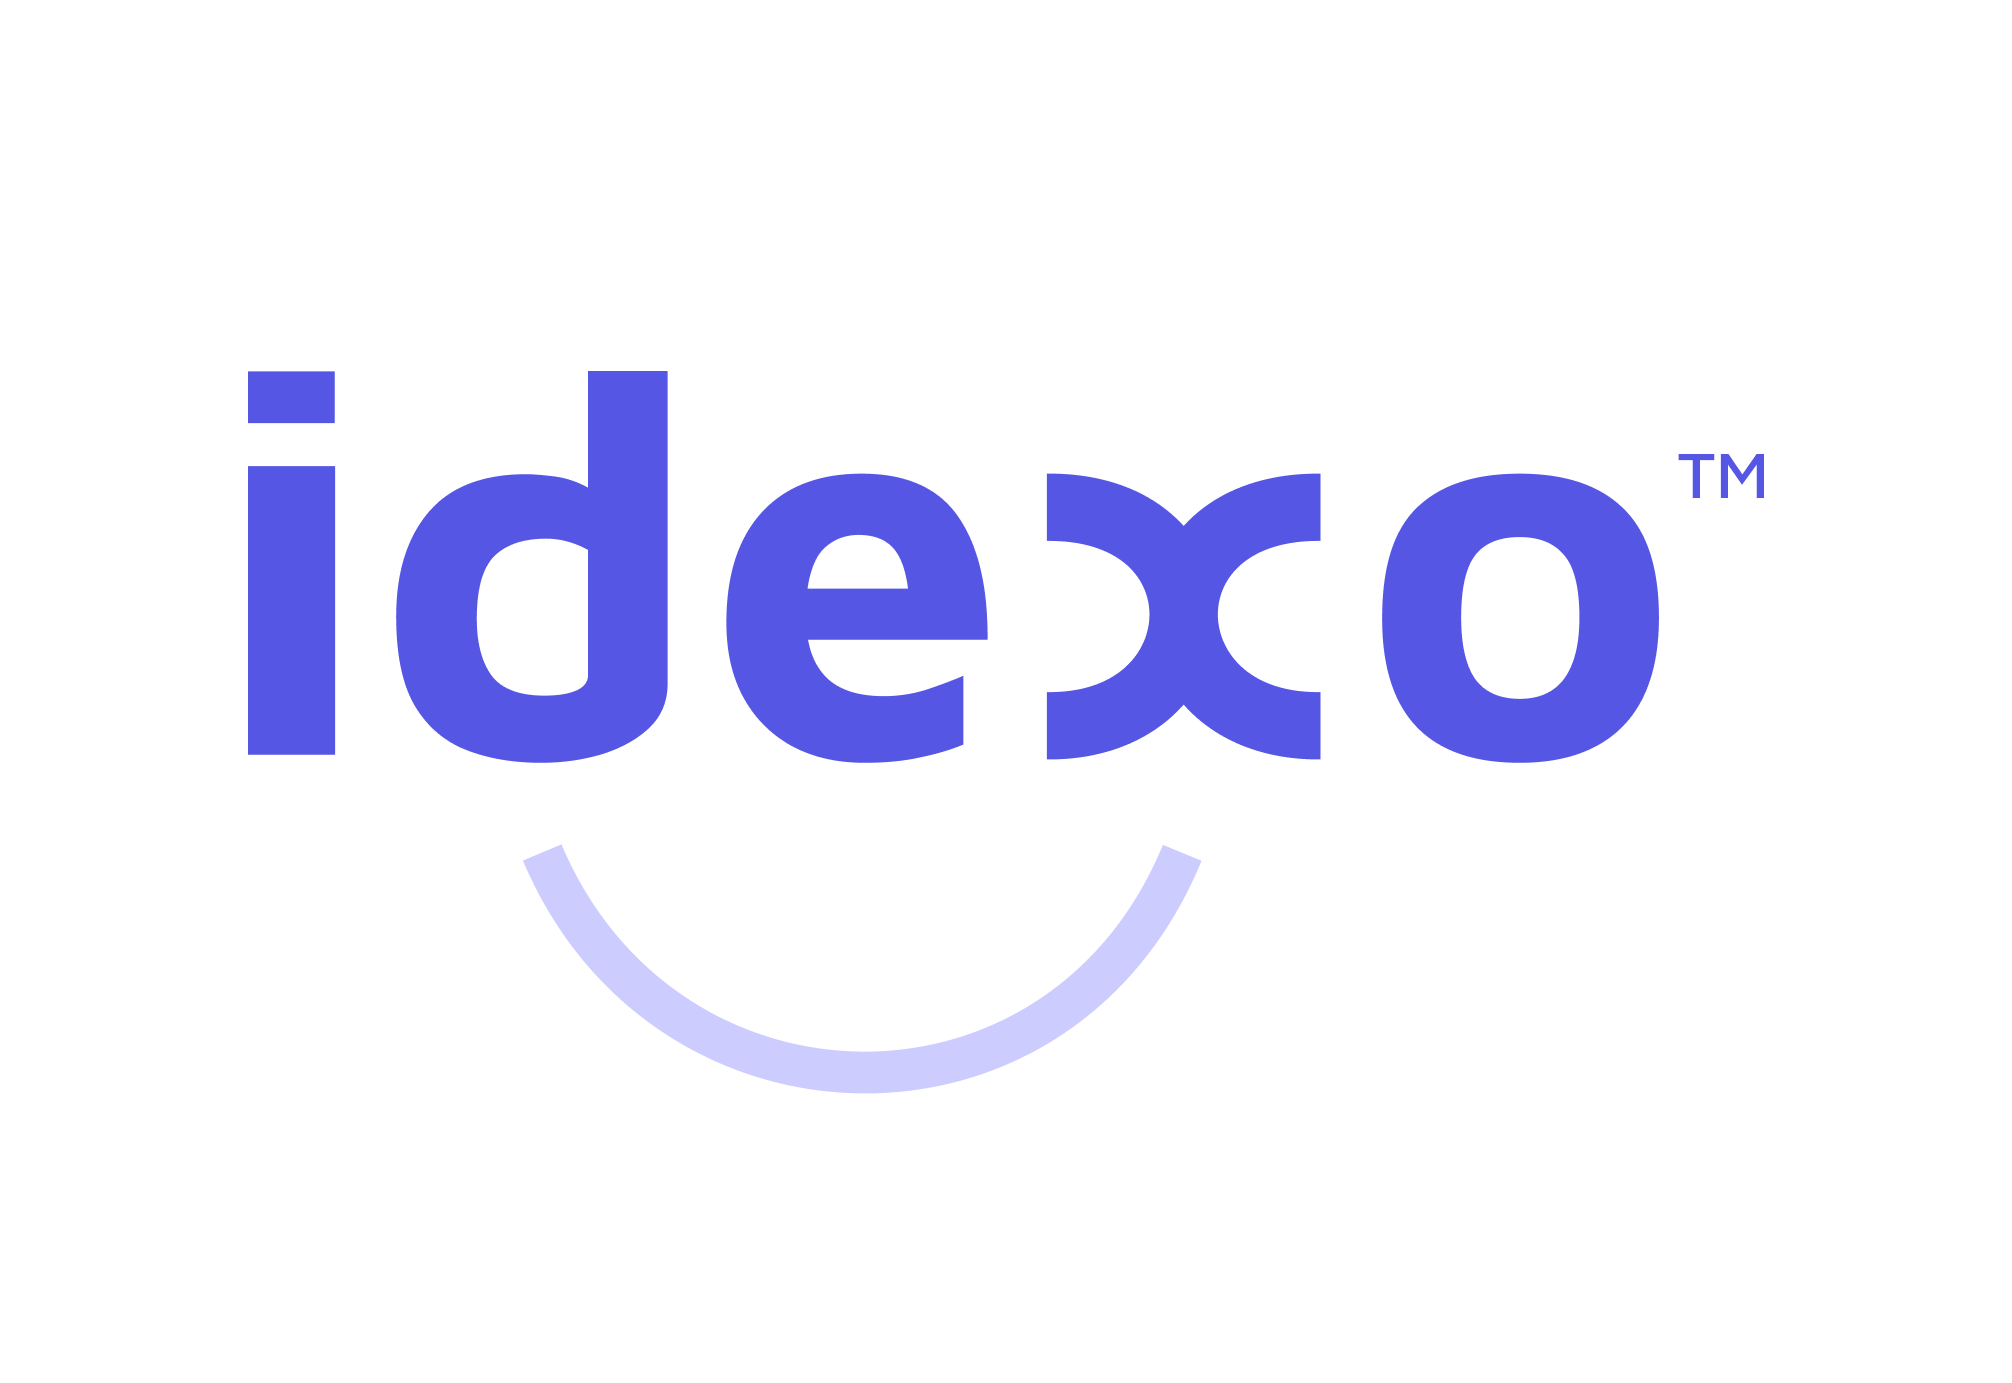
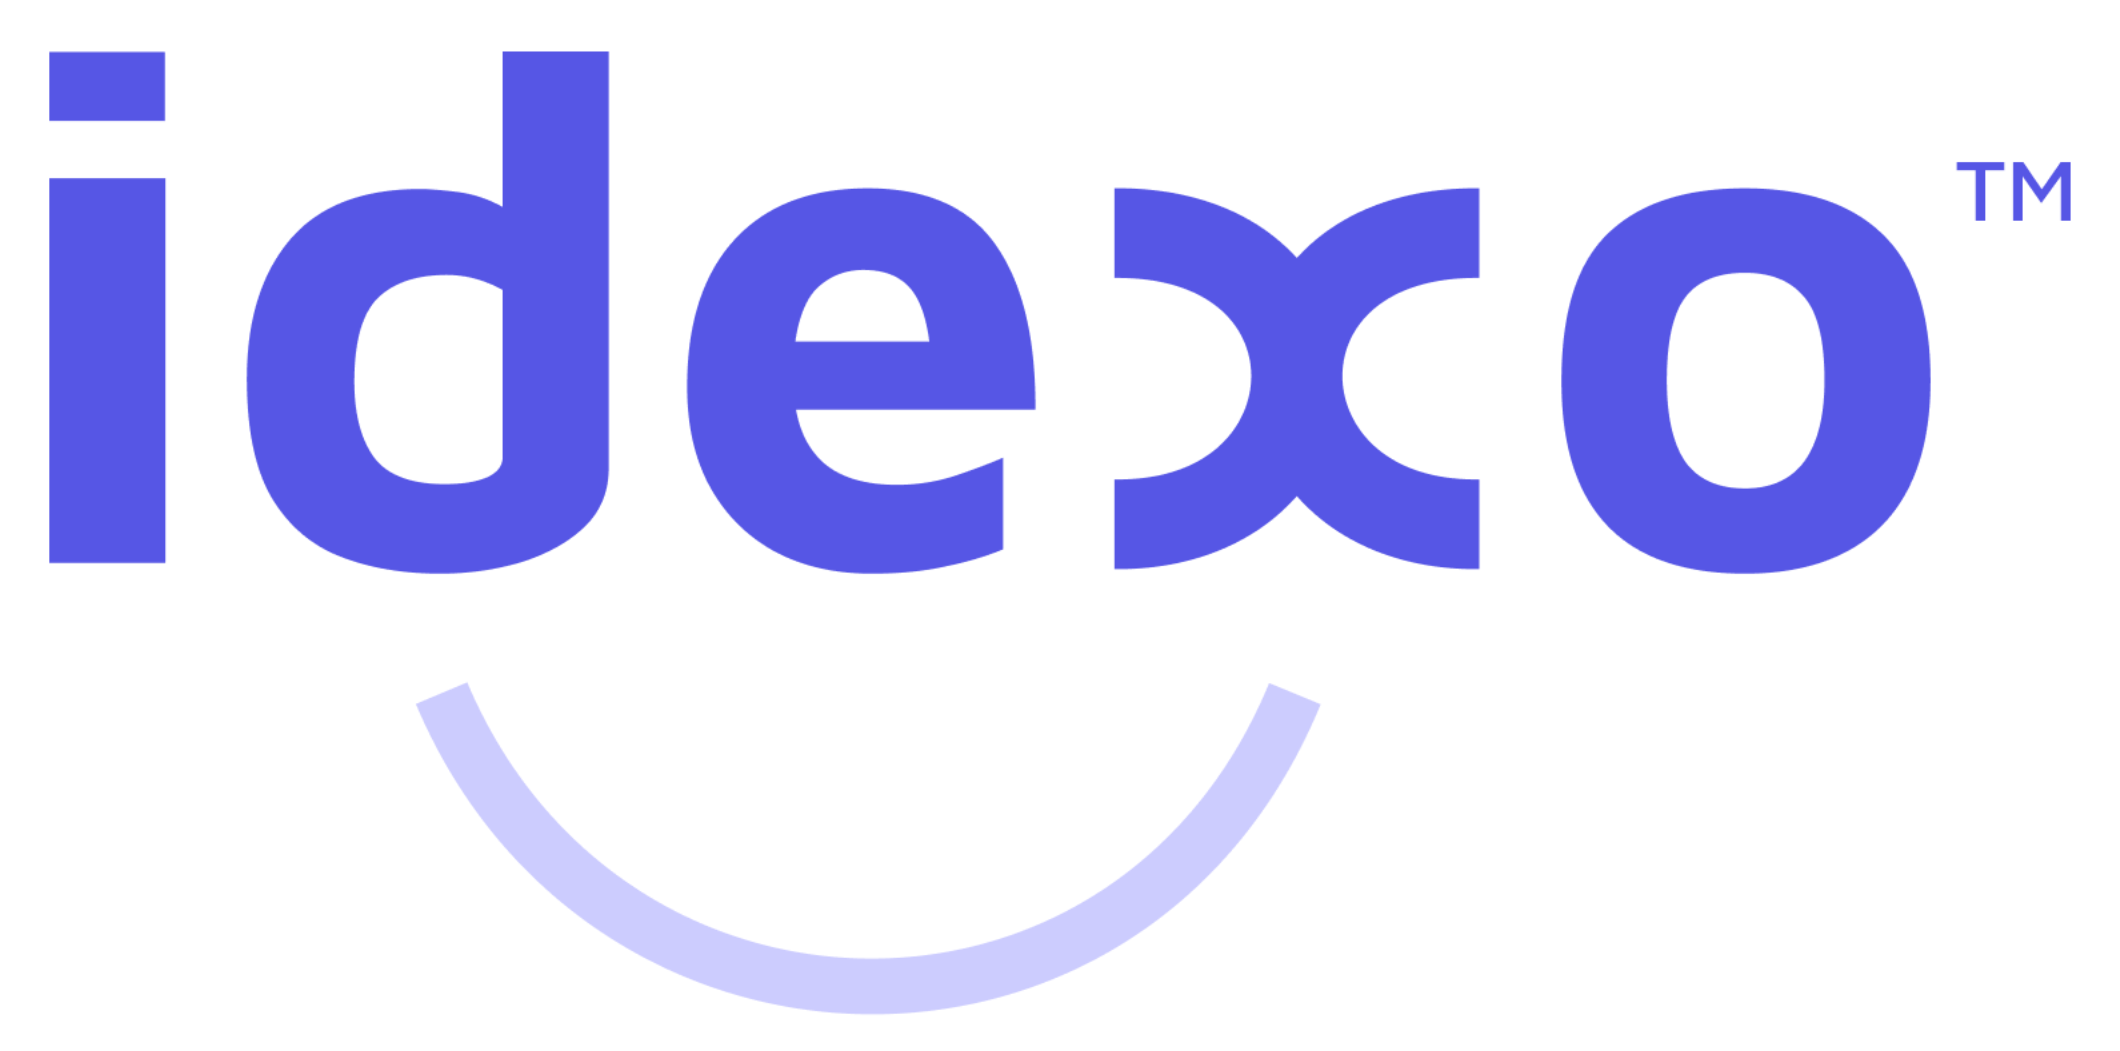
ok
ok

diff --git a/index.html b/index.html
@@ -884,7 +884,7 @@
         <div class="fix col-lg-4 col-md-4 text-center">
           <div class="service-block media">
             <div class="service-inner-content media-body">
-              <a href="https://idexo.io/"> <img style="width: 70%;height: auto;margin-top: -30px;" src="images/ido.png" alt=""></a>
+              <a href="https://idexo.io/"> <img style="width: 70%;height: auto; margin-bottom: 10px; margin-top: 5px;" src="images/ido.png" alt=""></a>
 
 
             </div>
